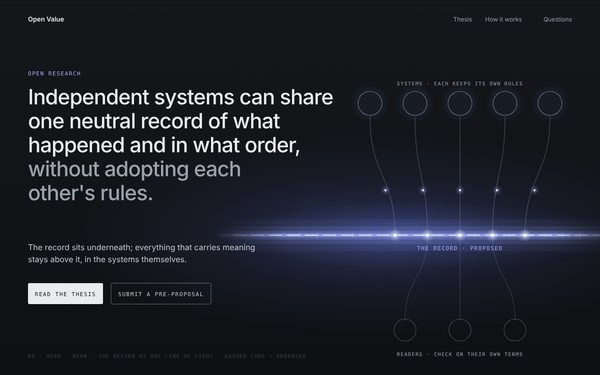
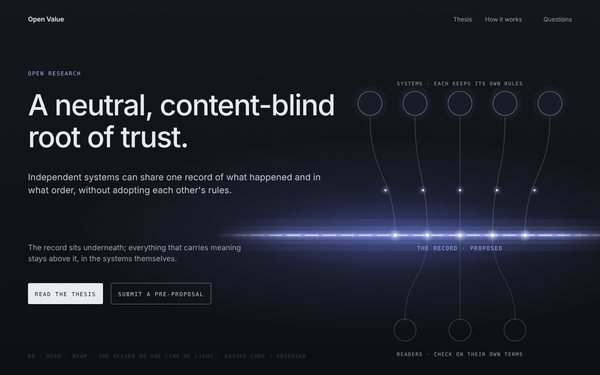
B0: use Da's headline verbatim; claim becomes the subline
'A neutral, content-blind root of trust.' per the Oct 22 review note.
This overrides landing-brief Decision 3 (no 'root of trust'); the brief
should be updated to match.

Claude-Session: https://claude.ai/code/session_01H7AKxGfHb29twQAYqUD3GX

Changed region(s): [[0.03, 0.2347, 0.57, 0.5573], [0.03, 0.6453, 0.42, 0.704]]

diff --git a/boards/B0-hero-beam.html b/boards/B0-hero-beam.html
@@ -17,7 +17,7 @@
 <filter id="glow2" x="-20%" y="-1200%" width="140%" height="2500%"><feGaussianBlur stdDeviation="34"/></filter>
 <filter id="soft" x="-50%" y="-50%" width="200%" height="200%"><feGaussianBlur stdDeviation="3"/></filter>
 <filter id="grain"><feTurbulence type="fractalNoise" baseFrequency=".9" numOctaves="2" stitchTiles="stitch"/><feColorMatrix type="saturate" values="0"/><feComponentTransfer><feFuncA type="linear" slope=".07"/></feComponentTransfer></filter>
-</defs><rect width="1200" height="750" fill="url(#bg)"/><ellipse cx="760" cy="470" rx="620" ry="200" fill="url(#haze)"/><path d="M740 232 C740 351.0 790 351.0 790 470" fill="none" stroke="#C3C8CF" stroke-opacity="0.35" stroke-width="1"/><circle cx="771" cy="380" r="5" fill="#9DAAFF" opacity=".6" filter="url(#soft)"/><circle cx="771" cy="380" r="2" fill="#fff"/><circle cx="740" cy="206" r="34" fill="#6E82FF" fill-opacity=".06" filter="url(#soft)"/><circle cx="740" cy="206" r="24" fill="none" stroke="#C3C8CF" stroke-opacity="0.5" stroke-width="1.2"/><path d="M830 232 C830 351.0 855 351.0 855 470" fill="none" stroke="#C3C8CF" stroke-opacity="0.35" stroke-width="1"/><circle cx="846" cy="380" r="5" fill="#9DAAFF" opacity=".6" filter="url(#soft)"/><circle cx="846" cy="380" r="2" fill="#fff"/><circle cx="830" cy="206" r="34" fill="#6E82FF" fill-opacity=".06" filter="url(#soft)"/><circle cx="830" cy="206" r="24" fill="none" stroke="#C3C8CF" stroke-opacity="0.5" stroke-width="1.2"/><path d="M920 232 C920 351.0 920 351.0 920 470" fill="none" stroke="#C3C8CF" stroke-opacity="0.35" stroke-width="1"/><circle cx="920" cy="380" r="5" fill="#9DAAFF" opacity=".6" filter="url(#soft)"/><circle cx="920" cy="380" r="2" fill="#fff"/><circle cx="920" cy="206" r="34" fill="#6E82FF" fill-opacity=".06" filter="url(#soft)"/><circle cx="920" cy="206" r="24" fill="none" stroke="#C3C8CF" stroke-opacity="0.5" stroke-width="1.2"/><path d="M1010 232 C1010 351.0 985 351.0 985 470" fill="none" stroke="#C3C8CF" stroke-opacity="0.35" stroke-width="1"/><circle cx="994" cy="380" r="5" fill="#9DAAFF" opacity=".6" filter="url(#soft)"/><circle cx="994" cy="380" r="2" fill="#fff"/><circle cx="1010" cy="206" r="34" fill="#6E82FF" fill-opacity=".06" filter="url(#soft)"/><circle cx="1010" cy="206" r="24" fill="none" stroke="#C3C8CF" stroke-opacity="0.5" stroke-width="1.2"/><path d="M1100 232 C1100 351.0 1050 351.0 1050 470" fill="none" stroke="#C3C8CF" stroke-opacity="0.35" stroke-width="1"/><circle cx="1069" cy="380" r="5" fill="#9DAAFF" opacity=".6" filter="url(#soft)"/><circle cx="1069" cy="380" r="2" fill="#fff"/><circle cx="1100" cy="206" r="34" fill="#6E82FF" fill-opacity=".06" filter="url(#soft)"/><circle cx="1100" cy="206" r="24" fill="none" stroke="#C3C8CF" stroke-opacity="0.5" stroke-width="1.2"/><defs><linearGradient id="gm430_1260_470" gradientUnits="userSpaceOnUse" x1="430" x2="1260" y1="0" y2="0"><stop offset="0" stop-color="#fff" stop-opacity="0"/><stop offset=".18" stop-color="#fff" stop-opacity="1"/><stop offset=".82" stop-color="#fff" stop-opacity="1"/><stop offset="1" stop-color="#fff" stop-opacity="0"/></linearGradient><mask id="m430_1260_470"><rect x="350" y="350" width="990" height="240" fill="url(#gm430_1260_470)"/></mask></defs><g mask="url(#m430_1260_470)"><ellipse cx="845.0" cy="470" rx="415.0" ry="70" fill="url(#haze)"/><line x1="430" x2="1260" y1="470" y2="470" stroke="#9DAAFF" stroke-opacity="0.07" stroke-width="64" stroke-linecap="round"/><line x1="430" x2="1260" y1="470" y2="470" stroke="#9DAAFF" stroke-opacity="0.12" stroke-width="36" stroke-linecap="round"/><line x1="430" x2="1260" y1="470" y2="470" stroke="#9DAAFF" stroke-opacity="0.22" stroke-width="18" stroke-linecap="round"/><line x1="430" x2="1260" y1="470" y2="470" stroke="#9DAAFF" stroke-opacity="0.4" stroke-width="9" stroke-linecap="round"/><line x1="430" x2="1260" y1="470" y2="470" stroke="#9DAAFF" stroke-opacity="0.75" stroke-width="4" stroke-linecap="round"/><line x1="430" x2="1260" y1="470" y2="470" stroke="#DCE2FF" stroke-width="2.0" stroke-dasharray="26 10"/></g><path d="M600 465V475M635 465V475M670 465V475M705 465V475M740 465V475M775 465V475M810 465V475M845 465V475M880 465V475M915 465V475M950 465V475M985 465V475M1020 465V475M1055 465V475M1090 465V475M1125 465V475M1160 465V475" stroke="#DCE2FF" stroke-opacity=".35" stroke-width="1"/><circle cx="790" cy="470" r="9" fill="#DCE2FF" opacity=".5" filter="url(#soft)"/><circle cx="790" cy="470" r="3.2" fill="#fff"/><circle cx="855" cy="470" r="9" fill="#DCE2FF" opacity=".5" filter="url(#soft)"/><circle cx="855" cy="470" r="3.2" fill="#fff"/><circle cx="920" cy="470" r="9" fill="#DCE2FF" opacity=".5" filter="url(#soft)"/><circle cx="920" cy="470" r="3.2" fill="#fff"/><circle cx="985" cy="470" r="9" fill="#DCE2FF" opacity=".5" filter="url(#soft)"/><circle cx="985" cy="470" r="3.2" fill="#fff"/><circle cx="1050" cy="470" r="9" fill="#DCE2FF" opacity=".5" filter="url(#soft)"/><circle cx="1050" cy="470" r="3.2" fill="#fff"/><text x="920" y="500" text-anchor="middle" style="font-family:'IBM Plex Mono', ui-monospace, Menlo, monospace;font-size:11px;font-weight:400;letter-spacing:.14em;text-transform:uppercase;fill:#9DAAFF">the record · proposed</text><path d="M855 470 C855 555.0 810 555.0 810 640" fill="none" stroke="#C3C8CF" stroke-opacity="0.25" stroke-width="1"/><circle cx="810" cy="660" r="22" fill="none" stroke="#C3C8CF" stroke-opacity=".35" stroke-width="1.1"/><path d="M920 470 C920 555.0 920 555.0 920 640" fill="none" stroke="#C3C8CF" stroke-opacity="0.25" stroke-width="1"/><circle cx="920" cy="660" r="22" fill="none" stroke="#C3C8CF" stroke-opacity=".35" stroke-width="1.1"/><path d="M985 470 C985 555.0 1030 555.0 1030 640" fill="none" stroke="#C3C8CF" stroke-opacity="0.25" stroke-width="1"/><circle cx="1030" cy="660" r="22" fill="none" stroke="#C3C8CF" stroke-opacity=".35" stroke-width="1.1"/><text x="920" y="170" text-anchor="middle" style="font-family:'IBM Plex Mono', ui-monospace, Menlo, monospace;font-size:10px;font-weight:400;letter-spacing:.14em;text-transform:uppercase;fill:#9AA1AB">systems · each keeps its own rules</text><text x="920" y="712" text-anchor="middle" style="font-family:'IBM Plex Mono', ui-monospace, Menlo, monospace;font-size:10px;font-weight:400;letter-spacing:.14em;text-transform:uppercase;fill:#9AA1AB">readers · check on their own terms</text><text x="56" y="150" text-anchor="start" style="font-family:'IBM Plex Mono', ui-monospace, Menlo, monospace;font-size:11px;font-weight:400;letter-spacing:.14em;text-transform:uppercase;fill:#9DAAFF">open research</text><text x="56" y="208" style="font-family:Inter, 'Helvetica Neue', Arial, sans-serif;font-size:42px;font-weight:500;letter-spacing:-.025em;fill:#E9EBEE">Independent systems can share</text><text x="56" y="256" style="font-family:Inter, 'Helvetica Neue', Arial, sans-serif;font-size:42px;font-weight:500;letter-spacing:-.025em;fill:#E9EBEE">one neutral record of what</text><text x="56" y="304" style="font-family:Inter, 'Helvetica Neue', Arial, sans-serif;font-size:42px;font-weight:500;letter-spacing:-.025em;fill:#E9EBEE">happened and in what order,</text><text x="56" y="352" style="font-family:Inter, 'Helvetica Neue', Arial, sans-serif;font-size:42px;font-weight:500;letter-spacing:-.025em;fill:#9AA1AB">without adopting each</text><text x="56" y="400" style="font-family:Inter, 'Helvetica Neue', Arial, sans-serif;font-size:42px;font-weight:500;letter-spacing:-.025em;fill:#9AA1AB">other's rules.</text><text x="56" y="500" text-anchor="start" style="font-family:Inter, 'Helvetica Neue', Arial, sans-serif;font-size:16px;font-weight:400;fill:#C3C8CF">The record sits underneath; everything that carries meaning</text><text x="56" y="524" text-anchor="start" style="font-family:Inter, 'Helvetica Neue', Arial, sans-serif;font-size:16px;font-weight:400;fill:#C3C8CF">stays above it, in the systems themselves.</text><rect x="56" y="566" width="150" height="42" rx="3" fill="#E9EBEE"/><text x="131" y="592" text-anchor="middle" style="font-family:'IBM Plex Mono', ui-monospace, Menlo, monospace;font-size:11px;font-weight:400;letter-spacing:.14em;text-transform:uppercase;fill:#14161A">read the thesis</text><rect x="222" y="566" width="200" height="42" rx="3" fill="none" stroke="#C3C8CF" stroke-opacity=".5"/><text x="322" y="592" text-anchor="middle" style="font-family:'IBM Plex Mono', ui-monospace, Menlo, monospace;font-size:11px;font-weight:400;letter-spacing:.14em;text-transform:uppercase;fill:#C3C8CF">submit a pre-proposal</text><rect width="1200" height="750" filter="url(#grain)" opacity=".9" style="mix-blend-mode:overlay"/><text x="56" y="42" text-anchor="start" style="font-family:Inter, 'Helvetica Neue', Arial, sans-serif;font-size:13px;font-weight:600;fill:#E9EBEE">Open Value</text><text x="944" y="42" text-anchor="end" style="font-family:Inter, 'Helvetica Neue', Arial, sans-serif;font-size:12px;font-weight:400;fill:#9AA1AB">Thesis</text><text x="1044" y="42" text-anchor="end" style="font-family:Inter, 'Helvetica Neue', Arial, sans-serif;font-size:12px;font-weight:400;fill:#9AA1AB">How it works</text><text x="1144" y="42" text-anchor="end" style="font-family:Inter, 'Helvetica Neue', Arial, sans-serif;font-size:12px;font-weight:400;fill:#9AA1AB">Questions</text><text x="56" y="716" text-anchor="start" style="font-family:'IBM Plex Mono', ui-monospace, Menlo, monospace;font-size:10px;font-weight:400;letter-spacing:.14em;text-transform:uppercase;fill:#3A3F48">B0 · hero · beam · the record as one line of light · dashed core = proposed</text></svg>
+</defs><rect width="1200" height="750" fill="url(#bg)"/><ellipse cx="760" cy="470" rx="620" ry="200" fill="url(#haze)"/><path d="M740 232 C740 351.0 790 351.0 790 470" fill="none" stroke="#C3C8CF" stroke-opacity="0.35" stroke-width="1"/><circle cx="771" cy="380" r="5" fill="#9DAAFF" opacity=".6" filter="url(#soft)"/><circle cx="771" cy="380" r="2" fill="#fff"/><circle cx="740" cy="206" r="34" fill="#6E82FF" fill-opacity=".06" filter="url(#soft)"/><circle cx="740" cy="206" r="24" fill="none" stroke="#C3C8CF" stroke-opacity="0.5" stroke-width="1.2"/><path d="M830 232 C830 351.0 855 351.0 855 470" fill="none" stroke="#C3C8CF" stroke-opacity="0.35" stroke-width="1"/><circle cx="846" cy="380" r="5" fill="#9DAAFF" opacity=".6" filter="url(#soft)"/><circle cx="846" cy="380" r="2" fill="#fff"/><circle cx="830" cy="206" r="34" fill="#6E82FF" fill-opacity=".06" filter="url(#soft)"/><circle cx="830" cy="206" r="24" fill="none" stroke="#C3C8CF" stroke-opacity="0.5" stroke-width="1.2"/><path d="M920 232 C920 351.0 920 351.0 920 470" fill="none" stroke="#C3C8CF" stroke-opacity="0.35" stroke-width="1"/><circle cx="920" cy="380" r="5" fill="#9DAAFF" opacity=".6" filter="url(#soft)"/><circle cx="920" cy="380" r="2" fill="#fff"/><circle cx="920" cy="206" r="34" fill="#6E82FF" fill-opacity=".06" filter="url(#soft)"/><circle cx="920" cy="206" r="24" fill="none" stroke="#C3C8CF" stroke-opacity="0.5" stroke-width="1.2"/><path d="M1010 232 C1010 351.0 985 351.0 985 470" fill="none" stroke="#C3C8CF" stroke-opacity="0.35" stroke-width="1"/><circle cx="994" cy="380" r="5" fill="#9DAAFF" opacity=".6" filter="url(#soft)"/><circle cx="994" cy="380" r="2" fill="#fff"/><circle cx="1010" cy="206" r="34" fill="#6E82FF" fill-opacity=".06" filter="url(#soft)"/><circle cx="1010" cy="206" r="24" fill="none" stroke="#C3C8CF" stroke-opacity="0.5" stroke-width="1.2"/><path d="M1100 232 C1100 351.0 1050 351.0 1050 470" fill="none" stroke="#C3C8CF" stroke-opacity="0.35" stroke-width="1"/><circle cx="1069" cy="380" r="5" fill="#9DAAFF" opacity=".6" filter="url(#soft)"/><circle cx="1069" cy="380" r="2" fill="#fff"/><circle cx="1100" cy="206" r="34" fill="#6E82FF" fill-opacity=".06" filter="url(#soft)"/><circle cx="1100" cy="206" r="24" fill="none" stroke="#C3C8CF" stroke-opacity="0.5" stroke-width="1.2"/><defs><linearGradient id="gm430_1260_470" gradientUnits="userSpaceOnUse" x1="430" x2="1260" y1="0" y2="0"><stop offset="0" stop-color="#fff" stop-opacity="0"/><stop offset=".18" stop-color="#fff" stop-opacity="1"/><stop offset=".82" stop-color="#fff" stop-opacity="1"/><stop offset="1" stop-color="#fff" stop-opacity="0"/></linearGradient><mask id="m430_1260_470"><rect x="350" y="350" width="990" height="240" fill="url(#gm430_1260_470)"/></mask></defs><g mask="url(#m430_1260_470)"><ellipse cx="845.0" cy="470" rx="415.0" ry="70" fill="url(#haze)"/><line x1="430" x2="1260" y1="470" y2="470" stroke="#9DAAFF" stroke-opacity="0.07" stroke-width="64" stroke-linecap="round"/><line x1="430" x2="1260" y1="470" y2="470" stroke="#9DAAFF" stroke-opacity="0.12" stroke-width="36" stroke-linecap="round"/><line x1="430" x2="1260" y1="470" y2="470" stroke="#9DAAFF" stroke-opacity="0.22" stroke-width="18" stroke-linecap="round"/><line x1="430" x2="1260" y1="470" y2="470" stroke="#9DAAFF" stroke-opacity="0.4" stroke-width="9" stroke-linecap="round"/><line x1="430" x2="1260" y1="470" y2="470" stroke="#9DAAFF" stroke-opacity="0.75" stroke-width="4" stroke-linecap="round"/><line x1="430" x2="1260" y1="470" y2="470" stroke="#DCE2FF" stroke-width="2.0" stroke-dasharray="26 10"/></g><path d="M600 465V475M635 465V475M670 465V475M705 465V475M740 465V475M775 465V475M810 465V475M845 465V475M880 465V475M915 465V475M950 465V475M985 465V475M1020 465V475M1055 465V475M1090 465V475M1125 465V475M1160 465V475" stroke="#DCE2FF" stroke-opacity=".35" stroke-width="1"/><circle cx="790" cy="470" r="9" fill="#DCE2FF" opacity=".5" filter="url(#soft)"/><circle cx="790" cy="470" r="3.2" fill="#fff"/><circle cx="855" cy="470" r="9" fill="#DCE2FF" opacity=".5" filter="url(#soft)"/><circle cx="855" cy="470" r="3.2" fill="#fff"/><circle cx="920" cy="470" r="9" fill="#DCE2FF" opacity=".5" filter="url(#soft)"/><circle cx="920" cy="470" r="3.2" fill="#fff"/><circle cx="985" cy="470" r="9" fill="#DCE2FF" opacity=".5" filter="url(#soft)"/><circle cx="985" cy="470" r="3.2" fill="#fff"/><circle cx="1050" cy="470" r="9" fill="#DCE2FF" opacity=".5" filter="url(#soft)"/><circle cx="1050" cy="470" r="3.2" fill="#fff"/><text x="920" y="500" text-anchor="middle" style="font-family:'IBM Plex Mono', ui-monospace, Menlo, monospace;font-size:11px;font-weight:400;letter-spacing:.14em;text-transform:uppercase;fill:#9DAAFF">the record · proposed</text><path d="M855 470 C855 555.0 810 555.0 810 640" fill="none" stroke="#C3C8CF" stroke-opacity="0.25" stroke-width="1"/><circle cx="810" cy="660" r="22" fill="none" stroke="#C3C8CF" stroke-opacity=".35" stroke-width="1.1"/><path d="M920 470 C920 555.0 920 555.0 920 640" fill="none" stroke="#C3C8CF" stroke-opacity="0.25" stroke-width="1"/><circle cx="920" cy="660" r="22" fill="none" stroke="#C3C8CF" stroke-opacity=".35" stroke-width="1.1"/><path d="M985 470 C985 555.0 1030 555.0 1030 640" fill="none" stroke="#C3C8CF" stroke-opacity="0.25" stroke-width="1"/><circle cx="1030" cy="660" r="22" fill="none" stroke="#C3C8CF" stroke-opacity=".35" stroke-width="1.1"/><text x="920" y="170" text-anchor="middle" style="font-family:'IBM Plex Mono', ui-monospace, Menlo, monospace;font-size:10px;font-weight:400;letter-spacing:.14em;text-transform:uppercase;fill:#9AA1AB">systems · each keeps its own rules</text><text x="920" y="712" text-anchor="middle" style="font-family:'IBM Plex Mono', ui-monospace, Menlo, monospace;font-size:10px;font-weight:400;letter-spacing:.14em;text-transform:uppercase;fill:#9AA1AB">readers · check on their own terms</text><text x="56" y="150" text-anchor="start" style="font-family:'IBM Plex Mono', ui-monospace, Menlo, monospace;font-size:11px;font-weight:400;letter-spacing:.14em;text-transform:uppercase;fill:#9DAAFF">open research</text><text x="56" y="230" style="font-family:Inter, 'Helvetica Neue', Arial, sans-serif;font-size:58px;font-weight:500;letter-spacing:-.03em;fill:#E9EBEE">A neutral, content-blind</text><text x="56" y="294" style="font-family:Inter, 'Helvetica Neue', Arial, sans-serif;font-size:58px;font-weight:500;letter-spacing:-.03em;fill:#E9EBEE">root of trust.</text><text x="56" y="360" text-anchor="start" style="font-family:Inter, 'Helvetica Neue', Arial, sans-serif;font-size:18px;font-weight:400;fill:#C3C8CF">Independent systems can share one record of what happened and in</text><text x="56" y="386" text-anchor="start" style="font-family:Inter, 'Helvetica Neue', Arial, sans-serif;font-size:18px;font-weight:400;fill:#C3C8CF">what order, without adopting each other's rules.</text><text x="56" y="500" text-anchor="start" style="font-family:Inter, 'Helvetica Neue', Arial, sans-serif;font-size:15px;font-weight:400;fill:#9AA1AB">The record sits underneath; everything that carries meaning</text><text x="56" y="522" text-anchor="start" style="font-family:Inter, 'Helvetica Neue', Arial, sans-serif;font-size:15px;font-weight:400;fill:#9AA1AB">stays above it, in the systems themselves.</text><rect x="56" y="566" width="150" height="42" rx="3" fill="#E9EBEE"/><text x="131" y="592" text-anchor="middle" style="font-family:'IBM Plex Mono', ui-monospace, Menlo, monospace;font-size:11px;font-weight:400;letter-spacing:.14em;text-transform:uppercase;fill:#14161A">read the thesis</text><rect x="222" y="566" width="200" height="42" rx="3" fill="none" stroke="#C3C8CF" stroke-opacity=".5"/><text x="322" y="592" text-anchor="middle" style="font-family:'IBM Plex Mono', ui-monospace, Menlo, monospace;font-size:11px;font-weight:400;letter-spacing:.14em;text-transform:uppercase;fill:#C3C8CF">submit a pre-proposal</text><rect width="1200" height="750" filter="url(#grain)" opacity=".9" style="mix-blend-mode:overlay"/><text x="56" y="42" text-anchor="start" style="font-family:Inter, 'Helvetica Neue', Arial, sans-serif;font-size:13px;font-weight:600;fill:#E9EBEE">Open Value</text><text x="944" y="42" text-anchor="end" style="font-family:Inter, 'Helvetica Neue', Arial, sans-serif;font-size:12px;font-weight:400;fill:#9AA1AB">Thesis</text><text x="1044" y="42" text-anchor="end" style="font-family:Inter, 'Helvetica Neue', Arial, sans-serif;font-size:12px;font-weight:400;fill:#9AA1AB">How it works</text><text x="1144" y="42" text-anchor="end" style="font-family:Inter, 'Helvetica Neue', Arial, sans-serif;font-size:12px;font-weight:400;fill:#9AA1AB">Questions</text><text x="56" y="716" text-anchor="start" style="font-family:'IBM Plex Mono', ui-monospace, Menlo, monospace;font-size:10px;font-weight:400;letter-spacing:.14em;text-transform:uppercase;fill:#3A3F48">B0 · hero · beam · the record as one line of light · dashed core = proposed</text></svg>
 </div></div>
 <script>function fit(){var s=Math.min(1,(window.innerWidth)/1200);var st=document.getElementById('stage');st.style.transform='scale('+s+')';document.getElementById('wrap').style.height=(750*s)+'px';document.getElementById('wrap').style.width=(1200*s)+'px'}fit();addEventListener('resize',fit)</script>
 </body></html>

diff --git a/index.html b/index.html
@@ -52,7 +52,7 @@ footer{margin-top:72px;padding-top:20px;border-top:1px solid var(--rule);color:v
     <p>Dark theme, one motif. The record is a beam; fingerprints are sparks that fall onto it; readers check from below. B0–B2 are emblems: the motif carries the meaning and labels stay minimal. B3–B5 keep the explanatory geometry of the figure family, re-themed, with the beam standing in for the record. Dashed core means proposed.</p>
   </div>
   <div class="grid">
-    <a class="card" href="boards/B0-hero-beam.html"><img src="thumbs/B0-hero-beam.jpg" alt="" loading="lazy"><span class="t"><span class="n">B0</span>Hero · the beam</span><span class="d">Claim beside the model. Systems above, readers below.</span></a>
+    <a class="card" href="boards/B0-hero-beam.html"><img src="thumbs/B0-hero-beam.jpg" alt="" loading="lazy"><span class="t"><span class="n">B0</span>Hero · the beam</span><span class="d">Da's headline. Claim as subline. Systems above, readers below.</span></a>
     <a class="card" href="boards/B1-why-tangle-to-beam.html"><img src="thumbs/B1-why-tangle-to-beam.jpg" alt="" loading="lazy"><span class="t"><span class="n">B1</span>Why · tangle to beam</span><span class="d">Ten threads for five systems, then five.</span></a>
     <a class="card" href="boards/B2-the-record-one-spark.html"><img src="thumbs/B2-the-record-one-spark.jpg" alt="" loading="lazy"><span class="t"><span class="n">B2</span>The record · one spark</span><span class="d">Only a fingerprint goes down.</span></a>
     <a class="card" href="boards/B3-who-does-what-dark.html"><img src="thumbs/B3-who-does-what-dark.jpg" alt="" loading="lazy"><span class="t"><span class="n">B3</span>Who does what</span><span class="d">Explanatory, dark.</span></a>

diff --git a/tools/beam.py b/tools/beam.py
@@ -100,11 +100,13 @@ def b0():
     b += label(920, 712, 'readers · check on their own terms', 10, MUTE)
     # claim
     b += label(56, 150, 'open research', 11, ACC_SOFT, 'start')
-    lines = [('Independent systems can share', FG), ('one neutral record of what', FG), ('happened and in what order,', FG), ('without adopting each', MUTE), ("other's rules.", MUTE)]
+    lines = [('A neutral, content-blind', FG), ('root of trust.', FG)]
     for i, (t, c) in enumerate(lines):
-        b += f'<text x="56" y="{208+i*48}" style="font-family:{SANS};font-size:42px;font-weight:500;letter-spacing:-.025em;fill:{c}">{t}</text>'
-    b += note(56, 500, 'The record sits underneath; everything that carries meaning', 16, FG2)
-    b += note(56, 524, 'stays above it, in the systems themselves.', 16, FG2)
+        b += f'<text x="56" y="{230+i*64}" style="font-family:{SANS};font-size:58px;font-weight:500;letter-spacing:-.03em;fill:{c}">{t}</text>'
+    b += note(56, 360, 'Independent systems can share one record of what happened and in', 18, FG2)
+    b += note(56, 386, "what order, without adopting each other's rules.", 18, FG2)
+    b += note(56, 500, 'The record sits underneath; everything that carries meaning', 15, MUTE)
+    b += note(56, 522, 'stays above it, in the systems themselves.', 15, MUTE)
     b += f'<rect x="56" y="566" width="150" height="42" rx="3" fill="{FG}"/>' + label(131, 592, 'read the thesis', 11, BG)
     b += f'<rect x="222" y="566" width="200" height="42" rx="3" fill="none" stroke="{FG2}" stroke-opacity=".5"/>' + label(322, 592, 'submit a pre-proposal', 11, FG2)
     return frame(b, 'B0 · hero · beam · the record as one line of light · dashed core = proposed')
